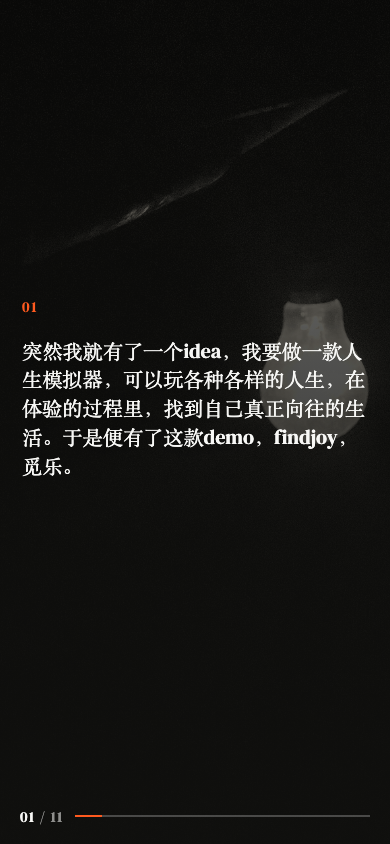
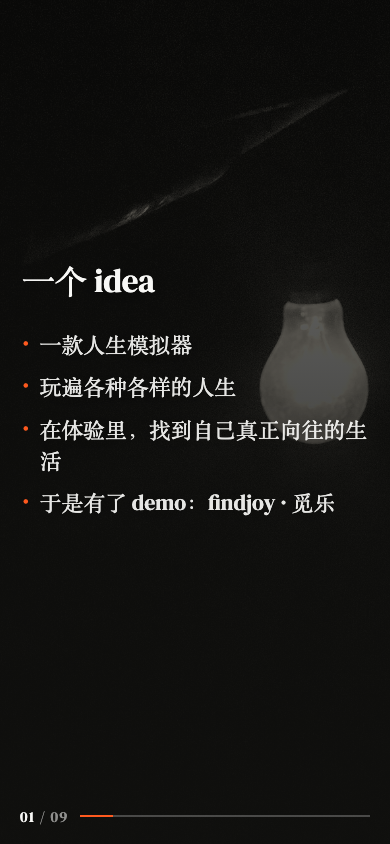
feat:展示页按演讲需求重构，第1页浓缩要点、4+5合并、删减与精简文案

diff --git a/app/showcase/ShowcaseDeck.tsx b/app/showcase/ShowcaseDeck.tsx
@@ -1,27 +1,43 @@
 "use client";
 
 import { useCallback, useEffect, useRef, useState } from "react";
+import type { ReactNode } from "react";
 import Link from "next/link";
 import { ShowcaseLogo } from "./ShowcaseLogo";
 import styles from "./showcase.module.css";
 
-// 10 段叙事文案：来自产品团队提供的「findjoy 由来」讲述，逐字照搬、每段一页。
-// 结尾页（第 11 页）保留原展示海报：人生没有答案，只有选择 + 二维码。
+// PPT 只做「提取重点 + 提词」，细节由演讲人口述：
+// - 第 1 页为浓缩要点页（不含原文，去掉第一人称）
+// - 其余叙事页保留原文逐字，或按用户要求精简/合并/删除
+// - 结尾页（第 9 页）保留原展示海报：人生没有答案，只有选择 + 二维码
 type NarrativeSlide = {
   no: string;
-  text: string;
   img: string;
+  /** 单段原文（逐字） */
+  text?: string;
+  /** 多行原文（逐字，同一页，如原 4、5 段合并） */
+  lines?: string[];
+  /** 浓缩页：主句 */
+  title?: string;
+  /** 浓缩页：要点列表（提词用） */
+  points?: string[];
 };
 
 const narrativeSlides: NarrativeSlide[] = [
   {
     no: "01",
-    text: "突然我就有了一个idea，我要做一款人生模拟器，可以玩各种各样的人生，在体验的过程里，找到自己真正向往的生活。于是便有了这款demo，findjoy，觅乐。",
+    title: "一个 idea",
+    points: [
+      "一款人生模拟器",
+      "玩遍各种各样的人生",
+      "在体验里，找到自己真正向往的生活",
+      "于是有了 demo：findjoy · 觅乐",
+    ],
     img: "deck-01-idea.jpg",
   },
   {
     no: "02",
-    text: "它和市面上绝大多数的人生模拟器不一样，它没有目标、没有数值、没有评判，因为我认为这些东西无法描述生命的厚度。",
+    text: "没有目标，没有数值，没有评判",
     img: "deck-02-thickness.jpg",
   },
   {
@@ -31,37 +47,30 @@ const narrativeSlides: NarrativeSlide[] = [
   },
   {
     no: "04",
-    text: "根据用户的过往经历，以及当下所做的决定，来实时推演下一个节点发生的事。",
+    lines: [
+      "根据用户的过往经历，以及当下所做的决定，来实时推演下一个节点发生的事。",
+      "从而推动用户再次做出决策。",
+    ],
     img: "deck-04-nodes.jpg",
   },
   {
     no: "05",
-    text: "从而推动用户再次做出决策。",
-    img: "deck-05-loop.jpg",
-  },
-  {
-    no: "06",
     text: "每一个决策都会把用户推向不同的人生方向，用户要在爱情、事业、亲情、友情之间做平衡、做抉择。",
     img: "deck-05-directions.jpg",
   },
   {
-    no: "07",
+    no: "06",
     text: "所有选择都没有对错，也没有所谓的成功，只想帮助用户在走过多种人生后，找到自己想过的生活，找到幸福。",
     img: "deck-06-path.jpg",
   },
   {
-    no: "08",
-    text: "大富大贵不等于幸福、躺平不等于幸福、功成名就也不等于幸福，那幸福是什么呢？",
+    no: "07",
+    text: "幸福是什么？",
     img: "deck-07-happiness.jpg",
   },
   {
-    no: "09",
-    text: "答案在每个体会过多种人生的用户心里，且每个人的定义都不同。",
-    img: "deck-08-heart.jpg",
-  },
-  {
-    no: "10",
-    text: "而这便是findjoy的意义所在。",
+    no: "08",
+    text: "这便是findjoy的意义所在。",
     img: "deck-10-meaning.jpg",
   },
 ];
@@ -183,6 +192,37 @@ export default function ShowcaseDeck() {
     .filter(Boolean)
     .join(" ");
 
+  const slideBody = (s: NarrativeSlide): ReactNode => {
+    if (s.title) {
+      return (
+        <>
+          <p data-deck-title className={[styles.deckText, styles.t1].join(" ")}>{s.title}</p>
+          <div className={styles.deckPoints}>
+            {(s.points ?? []).map((pt, j) => (
+              <p key={j} data-deck-point className={styles.deckPoint}>
+                <span className={styles.deckPointMark} aria-hidden="true">·</span>
+                {pt}
+              </p>
+            ))}
+          </div>
+        </>
+      );
+    }
+    if (s.lines) {
+      const size = textSizeClass(s.lines.join("").length);
+      return (
+        <div className={styles.deckLines}>
+          {s.lines.map((ln, j) => (
+            <p key={j} data-deck-line className={[styles.deckText, size].join(" ")}>
+              {ln}
+            </p>
+          ))}
+        </div>
+      );
+    }
+    return <p className={[styles.deckText, textSizeClass((s.text ?? "").length)].join(" ")}>{s.text}</p>;
+  };
+
   return (
     <div className={deckClass}>
       {narrativeSlides.map((s, i) => (
@@ -192,7 +232,7 @@ export default function ShowcaseDeck() {
             .filter(Boolean)
             .join(" ")}
           role="region"
-          aria-label={s.text.slice(0, 24)}
+          aria-label={s.title ?? s.text ?? (s.lines ?? []).join("")}
           aria-hidden={i !== index}
         >
           <div className={styles.bg}>
@@ -206,10 +246,7 @@ export default function ShowcaseDeck() {
             />
             <div className={styles.veil} />
           </div>
-          <div className={styles.content}>
-            <span className={styles.deckNo}>{s.no}</span>
-            <p className={[styles.deckText, textSizeClass(s.text.length)].join(" ")}>{s.text}</p>
-          </div>
+          <div className={styles.content}>{slideBody(s)}</div>
         </section>
       ))}
 

diff --git a/app/showcase/showcase.module.css b/app/showcase/showcase.module.css
@@ -83,6 +83,36 @@
 .t2 { font-size: clamp(34px, 4.2vw, 78px); }
 .t3 { font-size: clamp(29px, 3.5vw, 62px); }
 .t4 { font-size: clamp(25px, 3vw, 52px); }
+/* 浓缩页：主句 + 要点列表（提词用） */
+.deckPoints {
+  margin-top: 36px;
+  display: flex;
+  flex-direction: column;
+  gap: 18px;
+}
+.deckPoint {
+  margin: 0;
+  display: flex;
+  align-items: baseline;
+  gap: 14px;
+  color: rgba(248, 248, 246, 0.92);
+  font-family: "DM Serif Display", Georgia, serif;
+  font-size: clamp(22px, 2.3vw, 38px);
+  line-height: 1.4;
+  text-shadow: 0 2px 24px rgba(0, 0, 0, 0.35);
+}
+.deckPointMark {
+  flex: none;
+  color: var(--orange);
+  font-size: 1.15em;
+  line-height: 1;
+}
+/* 多行原文（同一页多段） */
+.deckLines {
+  display: flex;
+  flex-direction: column;
+  gap: 20px;
+}
 .eyebrow {
   margin: 0 0 26px;
   font-size: 11px;
@@ -500,6 +530,17 @@
   }
   .deckNo {
     margin-bottom: 18px;
+  }
+  .deckPoints {
+    margin-top: 24px;
+    gap: 12px;
+  }
+  .deckPoint {
+    gap: 10px;
+    font-size: clamp(18px, 5.6vw, 26px);
+  }
+  .deckLines {
+    gap: 14px;
   }
   .t1 { font-size: clamp(26px, 8.4vw, 40px); }
   .t2 { font-size: clamp(24px, 7.2vw, 34px); }

diff --git a/docs/ui-design/showcase-ppt-2026-08-22/qa-report.md b/docs/ui-design/showcase-ppt-2026-08-22/qa-report.md
@@ -1,47 +1,36 @@
 # QA 报告（qa-report.md）
 
 ## 范围
-app/showcase 从单页海报改造为 11 页 PPT 式幻灯片（方向 B 全幅沉浸）：10 页叙事（用户原文**逐字照搬、一字不改**，每段一页）+ 1 页结尾（原海报），2026-08-22 完成。
+app/showcase 从单页海报改造为 9 页 PPT 式幻灯片（方向 B 全幅沉浸）：8 页叙事 + 1 页结尾（原海报），2026-08-22 完成。
 
-## 文案一致性
-10 段叙事文案与用户提供原文逐字比对（Playwright 断言页面渲染文本 === 原文），全部一致，包括：
-- 「ai驱动」保持小写，不改为「AI 驱动」
-- 「findjoy，觅乐。」、「demo」等大小写与标点保持原样
-- 段落按原文换行拆页，不合并、不拆分原文句子
+## 叙事调整（按用户要求）
+1. 第 1 页浓缩为要点（去掉第一人称，起提词作用，不再展示原文）。
+2. 第 2 页只保留「没有目标，没有数值，没有评判」。
+3. 原 4、5 页合并为一页。
+4. 原第 8 页改为「幸福是什么？」。
+5. 原第 9 页删除。
+6. 原第 10 页去掉开头的「而」→「这便是findjoy的意义所在。」。
+保留的原文逐字不改（如「ai驱动」小写、标点原样）。
 
 ## 验证结果
 - `npm run typecheck` ✅ / `npm run lint` ✅ / `npm test` ✅（83 用例）/ `npm run build` ✅（/showcase 静态预渲染）
 
 ## 浏览器 QA（Playwright，Chromium 151）
-**64/64 检查通过**，覆盖 4 断点：1920×1080、1366×768、390×844、280×653。
+**80/80 检查通过**，覆盖 4 断点：1920×1080、1366×768、390×844、280×653。
 
-### 逐页结构
-- 共 11 页：10 页叙事（暗底全幅图）+ 1 页结尾（原海报纸白底 + 二维码）。
-- 每页 100svh，无页面滚动（scrollY=0）、无横向溢出、无元素溢出视口（入场动画结束后审计）。
-
-### 文案断言（4 断点 × 3 页抽查）
-- 第 1 页 / 第 5 页 / 第 10 页渲染文本与原文逐字一致 ✅
-- aria-label 与 HUD 计数器（01/11 → 05 → 10 → 11）同步正确 ✅
-
-### 交互矩阵（代码路径，全部通过）
-- 键盘：→/↓/PageDown/空格 前进、←/↑/PageUp 后退、Home/End 跳首尾。
-- 点击：右半屏前进、左半屏后退；链接/按钮不触发翻页；结尾页溢出时点击让位。
-- 滚轮：前进/后退，700ms 节流；结尾页溢出时让位原生滚动。
-- 触屏：横向滑动 40px 阈值翻页。
-- HUD：页码 + 进度条（aria-valuenow 同步）；结尾页切换墨色系。
-
-### 图片
-- 11 张图（10 张叙事配图 + 二维码）在全部断点加载成功。
-- 配图统一暖调黑白（grayscale + sepia + saturate），与品牌一致。
-- 图片加载失败时隐藏图片层、文字不破版。
-
-### 结尾页适配
-- 4 断点均一屏放下（scrollHeight === clientHeight）；≤480px 隐藏三支柱与金句、压缩二维码；≤340px 隐藏 URL/提示；保留 overflow-y:auto 兜底。
+### 逐页断言
+- 第 1 页：主句「一个 idea」+ 4 条要点齐全；渲染文本无第一人称「我」。
+- 第 2 页：仅「没有目标，没有数值，没有评判」。
+- 第 4 页：原 4+5 两段合并同页，逐字一致。
+- 第 7 页：幸福是什么？；第 8 页：这便是findjoy的意义所在。（无「而」）。
+- 结尾页（9）：原海报 + 二维码加载正常。
+- 计数器 01/09 → 04 → 07 → 08 → 09 全部同步；Home 回第 1 页。
+- 每页无横向溢出、无页面滚动、无元素溢出视口；配图全部加载。
 
 ## 截图（final-screenshots/）
-- venue / laptop / mobile / tiny 四断点 × {slide1, slide5, slide10, slide11-ending}
+- venue / laptop / mobile / tiny 四断点 × {slide1, slide4, slide7, slide8, slide9-ending}
 
 ## 已知限制
-- 配图 1920px 宽，4K 大屏略软；需要可换 3840px 原图。
-- 触屏滑动经代码审查确认，未自动化模拟真实手势。
+- 配图 1920px 宽，4K 大屏略软。
+- 触屏滑动经代码审查确认，未自动化模拟。
 - 结尾页 ≤480px 隐藏三支柱与金句（移动端以二维码与转化优先）。

diff --git a/docs/ui-design/showcase-ppt-2026-08-22/design-brief.md b/docs/ui-design/showcase-ppt-2026-08-22/design-brief.md
@@ -4,7 +4,7 @@
 会场大屏/投影展示用的产品海报页（app/showcase）目前是单页海报（左文案 + 右二维码）。
 本次改造目标：
 1. 把 showcase 页改造成「PPT 式逐页演示」（全屏幻灯片 + 键盘/点击翻页 + 页码进度）。
-2. 用户提供的产品叙事**逐字照搬、一字不改**，按原文段落拆成 10 页内容页。
+2. 用户提供的产品叙事按演讲需要处理：第 1 页浓缩为要点（去掉第一人称，起提词作用），其余按用户要求精简/合并/删除，**保留的原文逐字不改**。
 3. 现有的二维码海报页保留为**结尾页**（第 11 页），继续承担扫码转化职责。
 4. 每页配一张来自网络的高质量配图（Wikimedia Commons 自由许可图片，下载到仓库本地，不热链）。
 
@@ -21,20 +21,21 @@
 - 结尾页 = 现有二维码海报（"人生没有答案，只有选择" + 扫码开始），原样保留
 - 页面路由保持 app/showcase，不改动主流程页面
 
-## 叙事拆页（10 + 1 页，文案为用户原文，逐字不改）
+## 叙事拆页（8 + 1 页）
 | # | 文案（用户原文） | 配图主题 |
 |---|------------------|----------|
-| 01 | 突然我就有了一个idea，我要做一款人生模拟器……于是便有了这款demo，findjoy，觅乐。 | 灯泡/灵感 |
-| 02 | 它和市面上绝大多数的人生模拟器不一样，它没有目标、没有数值、没有评判，因为我认为这些东西无法描述生命的厚度。 | 年轮/树木截面 |
+| 01 | 浓缩要点页：一个 idea / 一款人生模拟器 / 玩遍各种各样的人生 / 在体验里，找到自己真正向往的生活 / 于是有了 demo：findjoy · 觅乐（原文不直接展示，口述为主） | 灯泡/灵感 |
+| 02 | 只保留：没有目标，没有数值，没有评判 | 年轮/树木截面 |
 | 03 | 这款产品的核心就是一次又一次的决策，整个人生故事线由ai驱动。 | 黑白国际象棋 |
-| 04 | 根据用户的过往经历，以及当下所做的决定，来实时推演下一个节点发生的事。 | 星轨/夜空节点 |
-| 05 | 从而推动用户再次做出决策。 | 旋转楼梯（循环往复） |
+| 04 | 原 4+5 合并：根据用户的过往经历，以及当下所做的决定，来实时推演下一个节点发生的事。从而推动用户再次做出决策。 | 星轨/夜空节点 |
 | 06 | 每一个决策都会把用户推向不同的人生方向，用户要在爱情、事业、亲情、友情之间做平衡、做抉择。 | 铁路岔道 |
 | 07 | 所有选择都没有对错，也没有所谓的成功，只想帮助用户在走过多种人生后，找到自己想过的生活，找到幸福。 | 林间小径 |
-| 08 | 大富大贵不等于幸福、躺平不等于幸福、功成名就也不等于幸福，那幸福是什么呢？ | 日出/海岸 |
-| 09 | 答案在每个体会过多种人生的用户心里，且每个人的定义都不同。 | 人形剪影 |
-| 10 | 而这便是findjoy的意义所在。 | 金色海面日出 |
-| 11 | 结尾：现有海报页：人生没有答案，只有选择 + 二维码 | （无配图，二维码为主角） |
+| 07 | 幸福是什么？ | 日出/海岸 |
+| 08 | 这便是findjoy的意义所在。（去掉开头的「而」） | 金色海面日出 |
+| 09 | 结尾：现有海报页：人生没有答案，只有选择 + 二维码 | （无配图，二维码为主角） |
+
+> 说明：原第 5 页「从而推动用户再次做出决策。」并入第 4 页；原第 9 页「答案在每个体会过多种人生的用户心里……」按用户要求删除。
+> 第 1 页不再展示原文（第一人称过重，像说话草稿），改为提取重点，方便听众理解且演讲人不忘词。
 
 ## 图片版权策略
 - 全部使用 Wikimedia Commons 上的自由许可图片（CC0 / CC BY / CC BY-SA / Public domain）

diff --git a/docs/ui-design/showcase-ppt-2026-08-22/reference-analysis.md b/docs/ui-design/showcase-ppt-2026-08-22/reference-analysis.md
@@ -11,16 +11,14 @@
 | 02 thickness | 年轮/树木截面（生命的厚度） | deck-02-thickness.jpg（松树截面, CC BY-SA 4.0） | — |
 | 03 decisions | 黑白国际象棋兵 | deck-03-decisions.jpg（Dietmar Rabich 黑白棋子, CC BY-SA 4.0） | — |
 | 04 nodes | 星轨（实时推演节点） | deck-04-nodes.jpg（ESO 阿塔卡马星轨, CC BY 4.0） | deck-04-nodes-alt.jpg（ISS 气辉星轨, CC BY 4.0） |
-| 05 loop | 旋转楼梯（推动再次决策） | deck-05-loop.jpg（伦敦市政厅旋转楼梯, CC BY-SA 4.0） | — |
 | 06 directions | 铁轨岔道 / 路牌（人生方向） | deck-05-directions.jpg（墨尔本铁路岔道, CC BY-SA 4.0） | deck-05-directions-alt.jpg（Dingle 路牌, CC0） |
 | 06 path | 晨雾林间小径（没有对错） | deck-06-path.jpg（Dülmen 黑白晨雾, CC BY-SA 4.0） | — |
 | 07 happiness | 日出/海岸（幸福是什么） | deck-07-happiness.jpg（Dingle 冬日黎明, CC BY-SA 4.0） | deck-07-happiness-alt.jpg（Sète 日落, CC BY 4.0） |
-| 09 heart | 人形剪影（答案在心里） | deck-08-heart.jpg（海边行走剪影, Public domain） | deck-08-heart-alt.jpg（海边三人剪影, Public domain） |
-| 10 meaning | 金色海面日出（意义所在） | deck-10-meaning.jpg（Golden Morning, CC0） | deck-07-happiness-alt.jpg（Sète 日落, CC BY 4.0） |
+| 08 meaning | 金色海面日出（意义所在） | deck-10-meaning.jpg（Golden Morning, CC0） | deck-07-happiness-alt.jpg（Sète 日落, CC BY 4.0） |
 
 统一处理：CSS 暖调黑白（grayscale + 轻微 sepia + 微饱和），与大屏投影的安静克制气质一致。
 
-> 注：叙事文案为用户原文，逐字照搬，每段一页（10 页叙事 + 1 页结尾）。
+> 注：叙事按演讲需要处理——第 1 页浓缩要点，其余保留原文逐字（第 2 页只留三个「没有」，4+5 合并，第 8 页改「幸福是什么？」，删原第 9 页，第 10 页去「而」）。共 8 页叙事 + 1 页结尾。
 
 ## 候选方向（previews/）
 1. **preview-1.html · 左右分栏**：左文右图，延续现有海报的构图语言，图片带细线外框。

diff --git a/docs/ui-design/showcase-ppt-2026-08-22/references/attribution.md b/docs/ui-design/showcase-ppt-2026-08-22/references/attribution.md
@@ -15,9 +15,7 @@
 | deck-06-path.jpg | [Dülmen, Wildpark -- 2017 -- 0009 (bw).jpg](https://commons.wikimedia.org/wiki/File:Dülmen,_Wildpark_--_2017_--_0009_(bw).jpg) | Dietmar Rabich | CC BY-SA 4.0 |
 | deck-07-happiness.jpg | [Dawn-1280687, Dingle Peninsula, Co. Kerry, Ireland.jpg](https://commons.wikimedia.org/wiki/File:Dawn-1280687,_Dingle_Peninsula,_Co._Kerry,_Ireland.jpg) | Maoileann | CC BY-SA 4.0 |
 | deck-07-happiness-alt.jpg | [Sète's sunset.jpg](https://commons.wikimedia.org/wiki/File:Sète's_sunset.jpg) | Christian Ferrer | CC BY 4.0 |
-| deck-08-heart.jpg | [Visitor walking silhouette sunset ruby beach coast scenic c bubar march 04-2015 (17370026042).jpg](https://commons.wikimedia.org/wiki/File:Visitor_walking_silhouette_sunset_ruby_beach_coast_scenic_c_bubar_march_04-2015_(17370026042).jpg) | 美国土地管理局（Public domain） | Public domain |
 | deck-08-heart-alt.jpg | [Three silhouettes visitors sunset rialto beach d archuleta 2015 (22736285177).jpg](https://commons.wikimedia.org/wiki/File:Three_silhouettes_visitors_sunset_rialto_beach_d_archuleta_2015_(22736285177).jpg) | 美国土地管理局（Public domain） | Public domain |
 
-| deck-05-loop.jpg | [City Hall, London, Spiral Staircase - 1.jpg](https://commons.wikimedia.org/wiki/File:City_Hall,_London,_Spiral_Staircase_-_1.jpg) | 见文件页 | CC BY-SA 4.0 |
 | deck-10-meaning.jpg | [Golden Morning (255626291).jpeg](https://commons.wikimedia.org/wiki/File:Golden_Morning_(255626291).jpeg) | 见文件页 | CC0 |
-> 实施阶段：`-alt` 为备选图，最终每页只保留 1 张主图。图片将复制到 `public/deck/` 本地目录，不采用热链。
+> 实施阶段：`-alt` 为备选图；deck-05-loop / deck-08-heart 已因页面调整不再使用（副本保留在 references/images/）。图片将复制到 `public/deck/` 本地目录，不采用热链。

diff --git a/docs/ui-design/showcase-ppt-2026-08-22/implementation-plan.md b/docs/ui-design/showcase-ppt-2026-08-22/implementation-plan.md
@@ -1,8 +1,8 @@
 # 实施方案（implementation-plan.md）
 
 ## 目标
-将 app/showcase 从单页海报改造为 11 页全幅沉浸式幻灯片（方向 B）：
-10 页叙事（用户原文逐字照搬、每段一页）+ 1 页结尾（现有海报页原样保留为结尾页）。仅手动翻页（用户已确认）。
+将 app/showcase 从单页海报改造为 9 页全幅沉浸式幻灯片（方向 B）：
+8 页叙事（第 1 页浓缩要点，其余按用户要求精简/合并/删除，保留原文逐字）+ 1 页结尾（现有海报页原样保留为结尾页）。仅手动翻页（用户已确认）。
 
 ## 文件变更
 1. **public/deck/**（新增）— 复制 8 张主选配图（deck-01-idea.jpg … deck-08-heart.jpg，来自 references/images/，均为 Wikimedia Commons 自由许可图片）。
@@ -15,7 +15,7 @@
 3. **app/showcase/page.tsx**（改）— 保留服务端组件以导出 metadata，改为渲染 <ShowcaseDeck/>；文案数据移到 Deck 内（叙事 8 页 + 结尾页）。
 4. **app/showcase/showcase.module.css**（改）— 新增 deck 样式（slide、bg、veil、content、hud、progress、responsive），保留/复用结尾页现有样式；删除不再需要的整页滚动布局样式。
 
-## 文案拆页（10+1，用户原文逐字不改）
+## 文案拆页（8+1）
 | # | 标题 | 配图 |
 |---|------|------|
 | 01 | 突然我就有了一个idea……（原文整段） | deck-01-idea.jpg |
